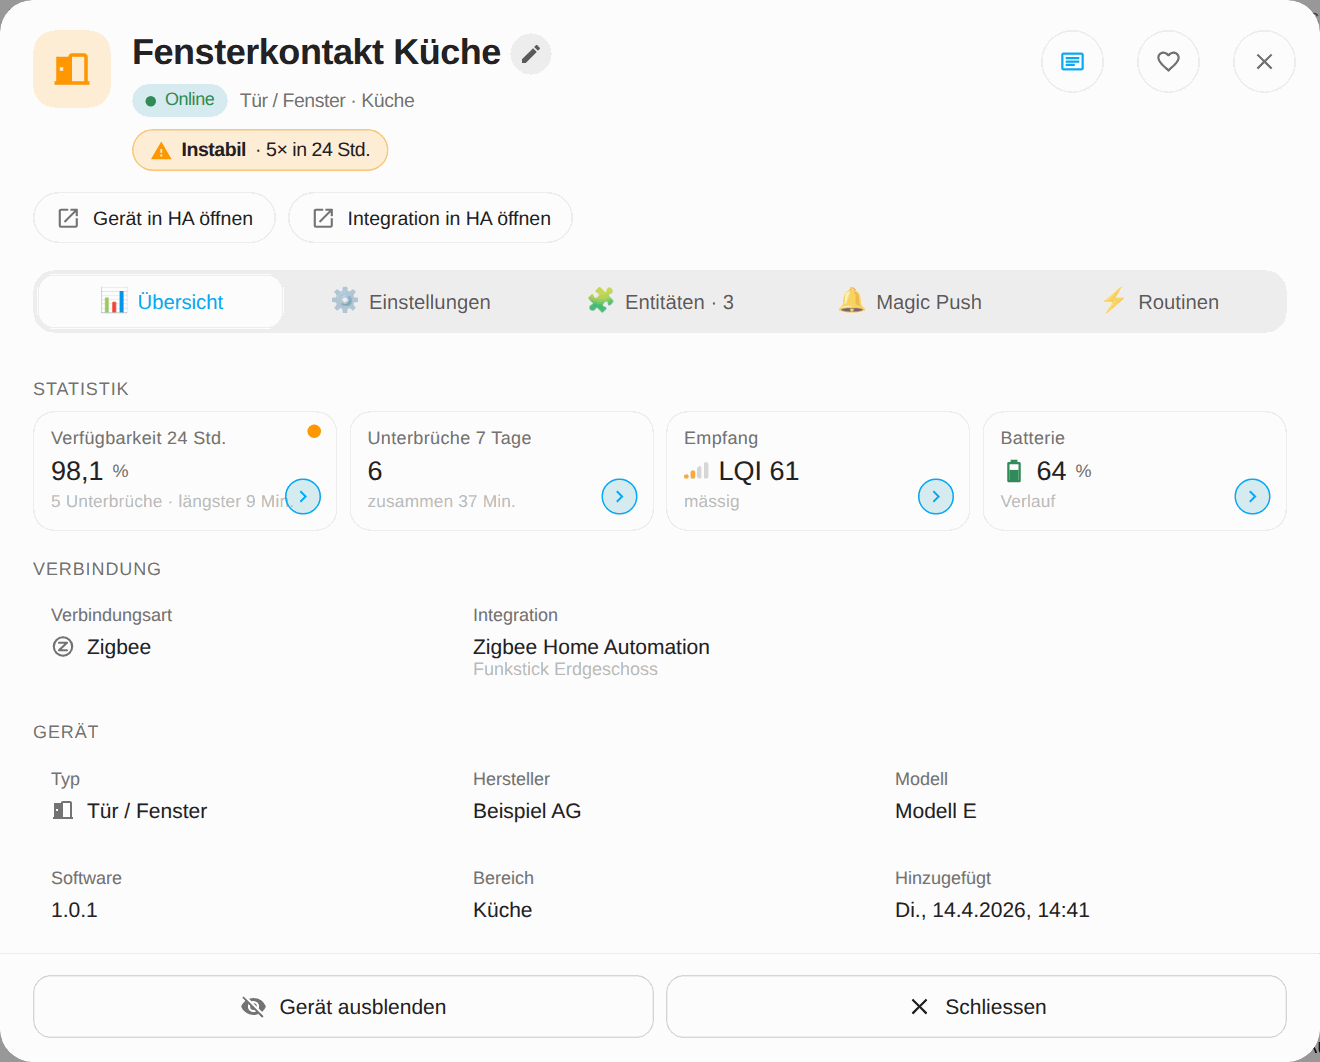
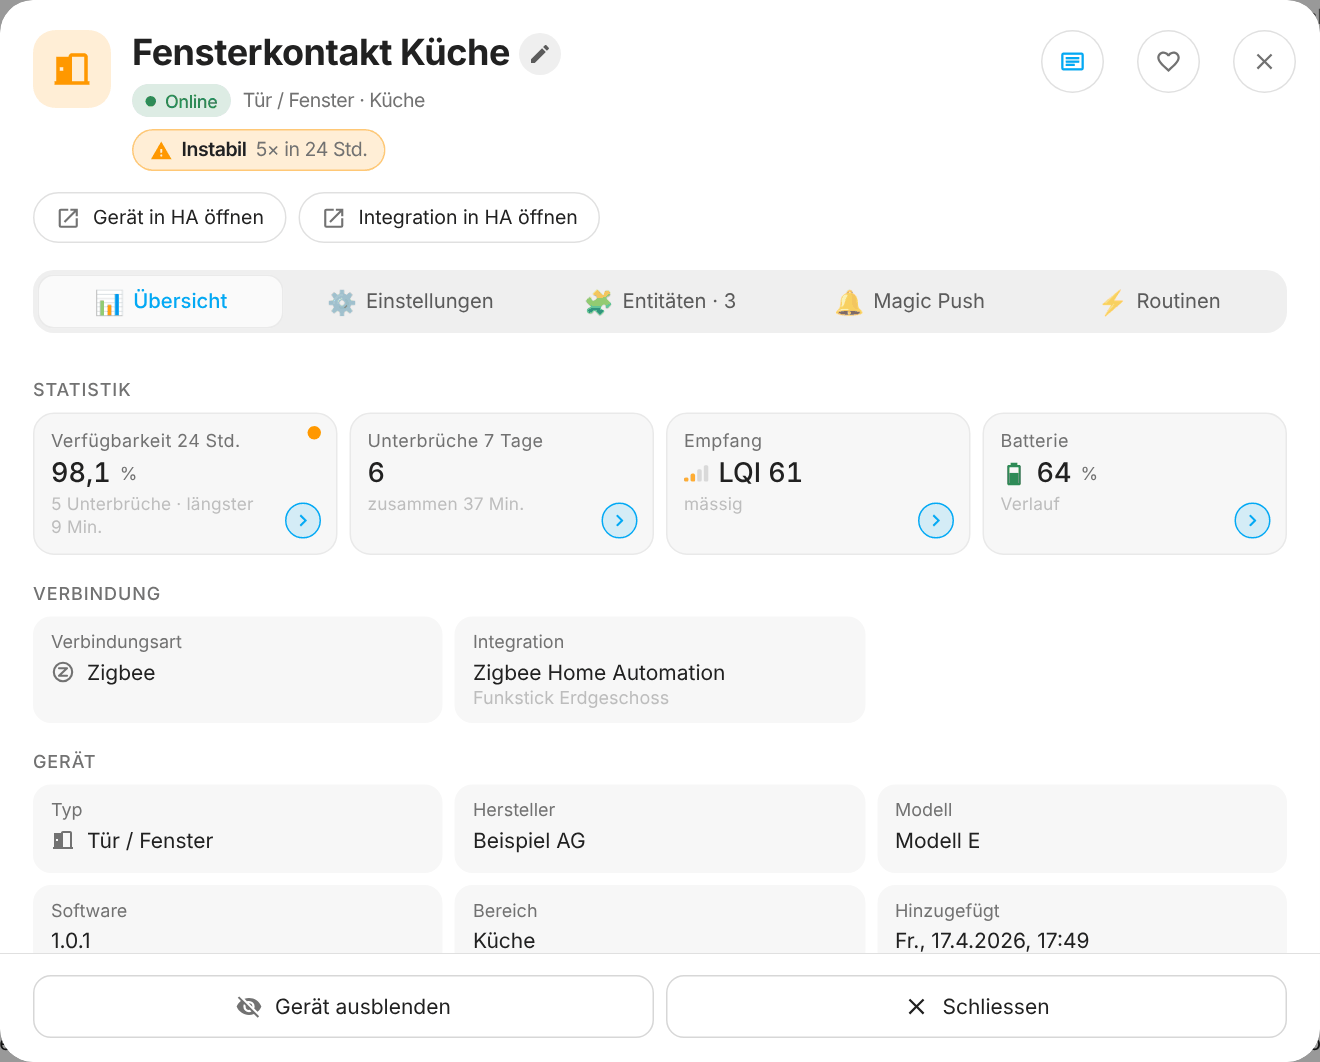
2.188.1: Popup auf dem Handy, neue README-Bilder des Popups
- Warnmarken im Popup-Kopf (Instabil, Empfang, Batterie) brechen als Ganzes um
  statt zu einer hohen, schmalen Kapsel; Wert gedämpft, ohne Punkt
- Kacheln der Statistik mit Pfeil: der Text läuft nicht unter den Pfeil
- README-Bilder popup.png und popup-mobile.png neu (Handybild in höherem Fenster,
  kein Abschnitt hinter der festen Leiste abgeschnitten)
- Tests (warnwhy), CHANGELOG (DE/EN), HANDOVER, PANEL_VERSION 429

Claude-Session: https://claude.ai/code/session_01U1q7hu4Br2u4E6fFdEJMgU

diff --git a/custom_components/device_panel/panel/styles.js b/custom_components/device_panel/panel/styles.js
@@ -1261,10 +1261,12 @@ button.ver-link { border: none; background: none; font: inherit; font-size: 13px
 .st-tile.static { cursor: default; }
 /* Grund der Warnung (seit 1.27.0): Marken im Kopf, gelber Rahmen und Punkt an der Kachel */
 .why-tags { display: flex; flex-wrap: wrap; gap: 6px; margin-top: 8px; }
-.why { display: inline-flex; align-items: center; gap: 6px; min-height: 28px; padding: 0 11px; border-radius: 999px; font-size: 13px;
+.why { display: inline-flex; flex-wrap: wrap; align-items: center; gap: 0 6px; min-height: 28px; padding: 3px 11px; border-radius: 16px; font-size: 13px; line-height: 1.3; max-width: 100%;
   border: 1px solid color-mix(in srgb, var(--dp-warning) 45%, transparent); background: var(--dp-warning-soft); }
 .why svg { color: var(--dp-warning); flex: none; }
 .why b { font-weight: 600; }
+/* Der Wert steht hinter dem Namen und bricht als Ganzes in die nächste Zeile, wenn die Spalte schmal ist (Handy: Name und drei Knöpfe daneben) */
+.why .wv { color: var(--dp-text2); white-space: nowrap; }
 .st-tile.warned { border-color: var(--dp-warning); box-shadow: 0 0 0 1px var(--dp-warning) inset; background: color-mix(in srgb, var(--dp-warning) 10%, var(--dp-card)); }
 .st-tile.warned::after { content: ""; position: absolute; top: 8px; right: 10px; width: 9px; height: 9px; border-radius: 50%; background: var(--dp-warning); }
 .st-tile.static:hover { border-color: var(--dp-divider); }
@@ -1273,6 +1275,8 @@ button.ver-link { border: none; background: none; font: inherit; font-size: 13px
 .st-v { display: inline-flex; align-items: center; gap: 6px; font-size: 18px; font-weight: 500; font-variant-numeric: tabular-nums; white-space: nowrap; }
 .st-v small { color: var(--dp-text2); font-size: 12px; font-weight: 400; }
 .st-v.bad { color: var(--dp-error); }
+/* Kachel mit Pfeil unten rechts: der Text darunter läuft nicht unter den Pfeil (24 px breit, 10 px vom Rand), sondern bricht um */
+.st-tile:has(> .chev) .st-sub { max-width: calc(100% - 36px); }
 .st-sub { max-width: calc(100% - 14px); color: var(--dp-text3); font-size: 11.5px; line-height: 1.3; }
 
 /* Angaben als Kacheln */

diff --git a/custom_components/device_panel/panel/device-panel.js b/custom_components/device_panel/panel/device-panel.js
@@ -5388,7 +5388,7 @@ class DevicePanel extends HTMLElement {
         if (d.battery?.low) why.push([this._t("warnBatteryLow"), d.battery.level != null ? `${d.battery.level} %` : ""]);
       }
       const whyHtml = why.length
-        ? `<div class="why-tags">${why.map(([k, v]) => `<span class="why">${mdi("alert", 15)}<b>${escape(k)}</b>${v ? ` · ${escape(v)}` : ""}</span>`).join("")}</div>`
+        ? `<div class="why-tags">${why.map(([k, v]) => `<span class="why">${mdi("alert", 15)}<b>${escape(k)}</b>${v ? ` <span class="wv">${escape(v)}</span>` : ""}</span>`).join("")}</div>`
         : "";
       const ents = this._entitiesHtml(d);
       // Reiter (seit 1.37.0, docs/mockups/popup-tabs-log-v1, R3): Übersicht zum Lesen, alle Einstellungen des Geräts

diff --git a/custom_components/device_panel/const.py b/custom_components/device_panel/const.py
@@ -13,7 +13,7 @@ PANEL_HTML_FILE = "panel.html"
 STATIC_URL_PATH = f"/{DOMAIN}"
 PANEL_STATIC_URL_PATH = f"{STATIC_URL_PATH}/panel"
 # Cache-Buster: bei jeder Änderung unter panel/ von Hand erhöhen.
-PANEL_VERSION = "428"
+PANEL_VERSION = "429"
 PANEL_PAGE_URL = f"{PANEL_STATIC_URL_PATH}/{PANEL_HTML_FILE}?v={PANEL_VERSION}"
 
 # Mitgeliefertes Bild für Push-Meldungen (Companion-App, "icon_url"), wie in

diff --git a/CHANGELOG.de.md b/CHANGELOG.de.md
@@ -7,6 +7,16 @@ Alle nennenswerten Änderungen an dieser Integration stehen in dieser Datei.
 Das Format folgt [Keep a Changelog](https://keepachangelog.com/de/1.1.0/),
 die Versionsnummern folgen [Semantic Versioning](https://semver.org/lang/de/).
 
+## [2.188.1] - 2026-11-03
+
+Das Geräte-Popup sieht auf einem schmalen Handy richtig aus, und die README-Bilder des Popups sind neu.
+
+### Behoben
+
+- **Popup, Kopf auf dem Handy:** Die Warnmarke ("Instabil 5× in 24 Std.", "Empfang schwach", "Batterie niedrig") stand in der schmalen Spalte neben dem Namen und den drei Knöpfen und brach zu einer hohen, schmalen Kapsel um. Sie bricht jetzt als Ganzes um: der Name der Warnung in der ersten Zeile, der Wert darunter in gedämpfter Farbe (der Punkt dazwischen entfällt), in einem Kasten mit runden Ecken statt einer vollen Kapsel.
+- **Popup, Kacheln der Statistik mit Pfeil:** Die Zeile unter dem Wert (zum Beispiel "5 Unterbrüche · längster 9 Min.") läuft nicht mehr unter den Pfeil unten rechts, sondern bricht in die nächste Zeile um.
+- **README:** Die Bilder des Popups (Desktop und Handy, Deutsch und Englisch) sind neu. Das Handybild entsteht in einem höheren Fenster, die ganze Übersicht liegt also über der festen Leiste "Gerät ausblenden / Schliessen", und kein Abschnitt wirkt abgeschnitten.
+
 ## [2.188.0] - 2026-11-03
 
 Die App "Updates" zeigt und startet jedes Update, das Home Assistant kennt.
@@ -5605,6 +5615,7 @@ Erste Vorabversion.
   GitHub Actions für die Prüfungen von HACS und hassfest sowie die Tests.
 
 [2.6.0]: https://github.com/Diegofuego871/ha-device-panel/releases/tag/v2.6.0
+[2.188.1]: https://github.com/Diegofuego871/ha-device-panel/releases/tag/v2.188.1
 [2.188.0]: https://github.com/Diegofuego871/ha-device-panel/releases/tag/v2.188.0
 [2.187.0]: https://github.com/Diegofuego871/ha-device-panel/releases/tag/v2.187.0
 [2.186.1]: https://github.com/Diegofuego871/ha-device-panel/releases/tag/v2.186.1

diff --git a/CHANGELOG.md b/CHANGELOG.md
@@ -7,6 +7,16 @@ All notable changes to this integration are documented in this file.
 The format is based on [Keep a Changelog](https://keepachangelog.com/en/1.1.0/),
 and this project adheres to [Semantic Versioning](https://semver.org/).
 
+## [2.188.1] - 2026-11-03
+
+The device pop-up looks right on a narrow phone, and the README pop-up images are renewed.
+
+### Fixed
+
+- **Pop-up, header on a phone:** the warning tag ("Unstable 5× in 24 h", "Weak signal", "Battery low") sat in the narrow column next to the name and the three buttons and broke into a tall, narrow capsule. It now breaks as a whole: the label on the first line, its value below in a muted color (the dot between them is gone), in a rounded box instead of a full capsule.
+- **Pop-up, statistics tiles with an arrow:** the line under the value (for example "5 outages · longest 9 min") no longer runs under the arrow at the bottom right; it breaks to the next line instead.
+- **README:** the pop-up images (desktop and phone, German and English) are renewed. The phone image is taken in a taller window, so the whole overview sits above the fixed bar "Hide device / Close" and no section looks cut off.
+
 ## [2.188.0] - 2026-11-03
 
 The app "Updates" shows and starts every update Home Assistant knows.
@@ -5504,6 +5514,7 @@ First pre-release.
   GitHub Actions for HACS/hassfest validation and tests.
 
 [2.6.0]: https://github.com/Diegofuego871/ha-device-panel/releases/tag/v2.6.0
+[2.188.1]: https://github.com/Diegofuego871/ha-device-panel/releases/tag/v2.188.1
 [2.188.0]: https://github.com/Diegofuego871/ha-device-panel/releases/tag/v2.188.0
 [2.187.0]: https://github.com/Diegofuego871/ha-device-panel/releases/tag/v2.187.0
 [2.186.1]: https://github.com/Diegofuego871/ha-device-panel/releases/tag/v2.186.1

diff --git a/docs/HANDOVER.md b/docs/HANDOVER.md
@@ -3,6 +3,10 @@
 Einstieg für jede neue Claude-Code-Session. Zuerst diese Datei lesen, dann
 `CLAUDE.md`, `docs/CONCEPT.md`, `docs/LEARNINGS.md`, `docs/DESIGN.md`.
 
+## Stand (2.188.1, Popup auf dem Handy)
+
+- Die Warnmarken im Popup-Kopf (`.why`, Wert in `<span class="wv">`, ohne Punkt) umbrechen als Ganzes und bleiben in der Spalte; Kacheln mit Pfeil (`.st-tile:has(> .chev) .st-sub`) lassen Platz für den Pfeil. Test: Suite `warnwhy`. README-Bilder `popup.png` und `popup-mobile.png` neu (`readme-shots.mjs`: für das Handybild ein Fenster mit 1070 px Höhe, damit keine Abschnitte hinter der festen Leiste verschwinden).
+
 ## Stand (2.188.0, App "Updates" für alle Updates)
 
 - Die App "Geräte-Updates" heisst "Updates" und zeigt jede offene Update-Entität, die Home Assistant kennt und installieren lässt (`update_queue.available`): Geräte, Apps (hassio), HACS, Core, Betriebssystem, Supervisor. Felder je Eintrag: `kind` (`update_kind`: core/addons/hacs/devices), `restart` (nur `update.home_assistant_core_update` und `..._operating_system_update`), `device_id` darf fehlen. Warteschlange: Neustart-Updates warten, bis alles andere durch ist, laufen allein und nur eines je Start (`enqueue`, `_pump_once`; die Warteschlange liegt im Arbeitsspeicher und endet mit dem Neustart). Start über `device_update.async_install_entity(hass, entity_id, hold_key, ...)`; Zurückhaltung der Ausfall-Meldungen: Gerät bei Geräte-Updates, `HOLD_ALL` ("*") bei App-Updates (`held_until` kennt beides), sonst keine.
